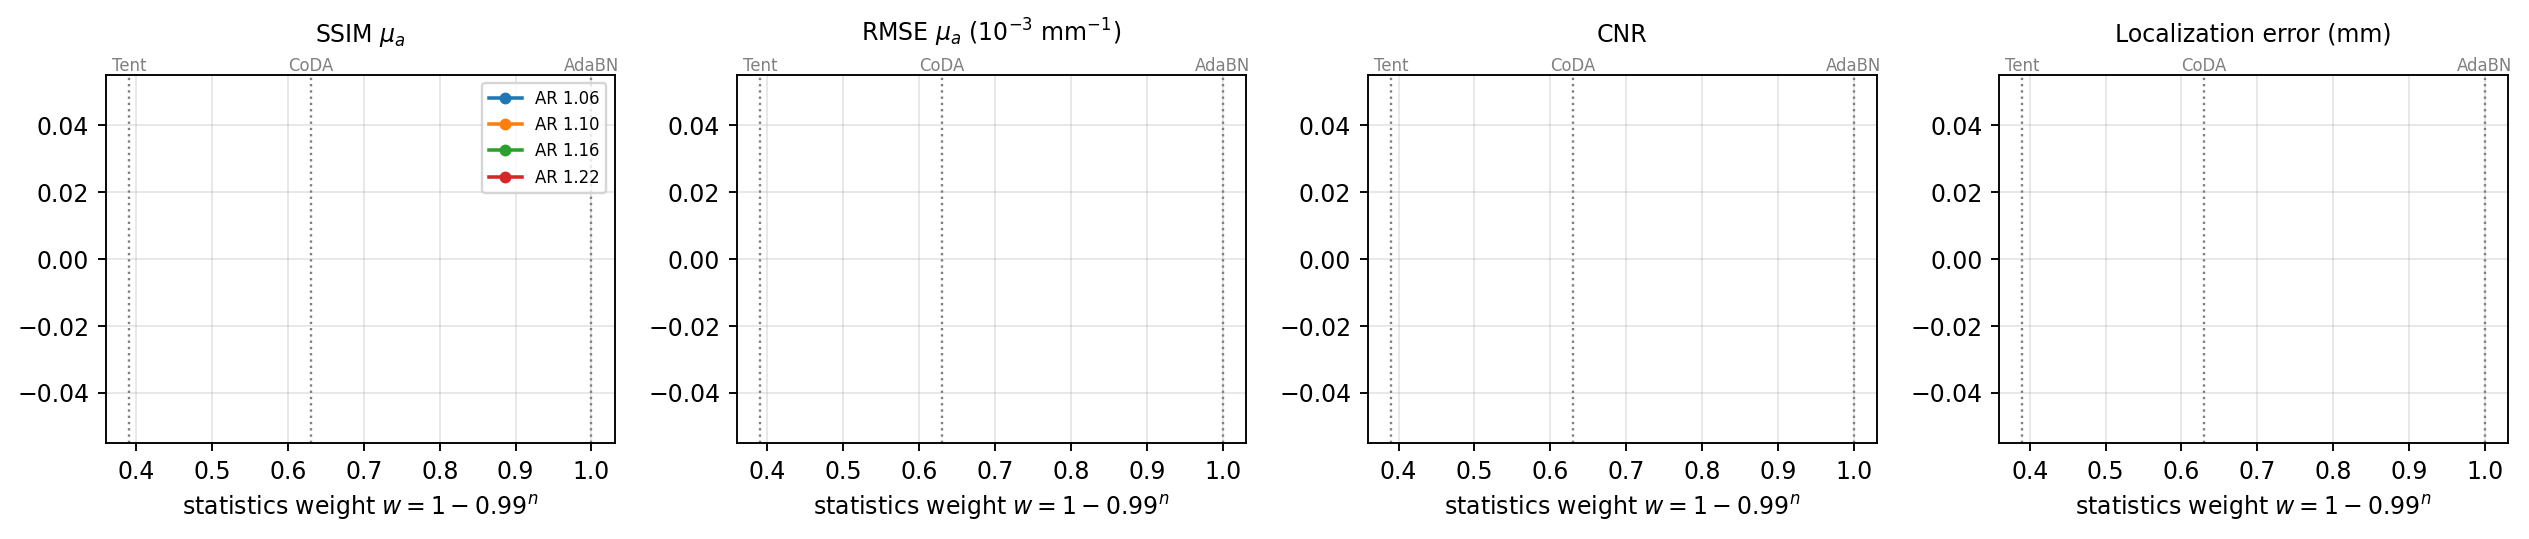
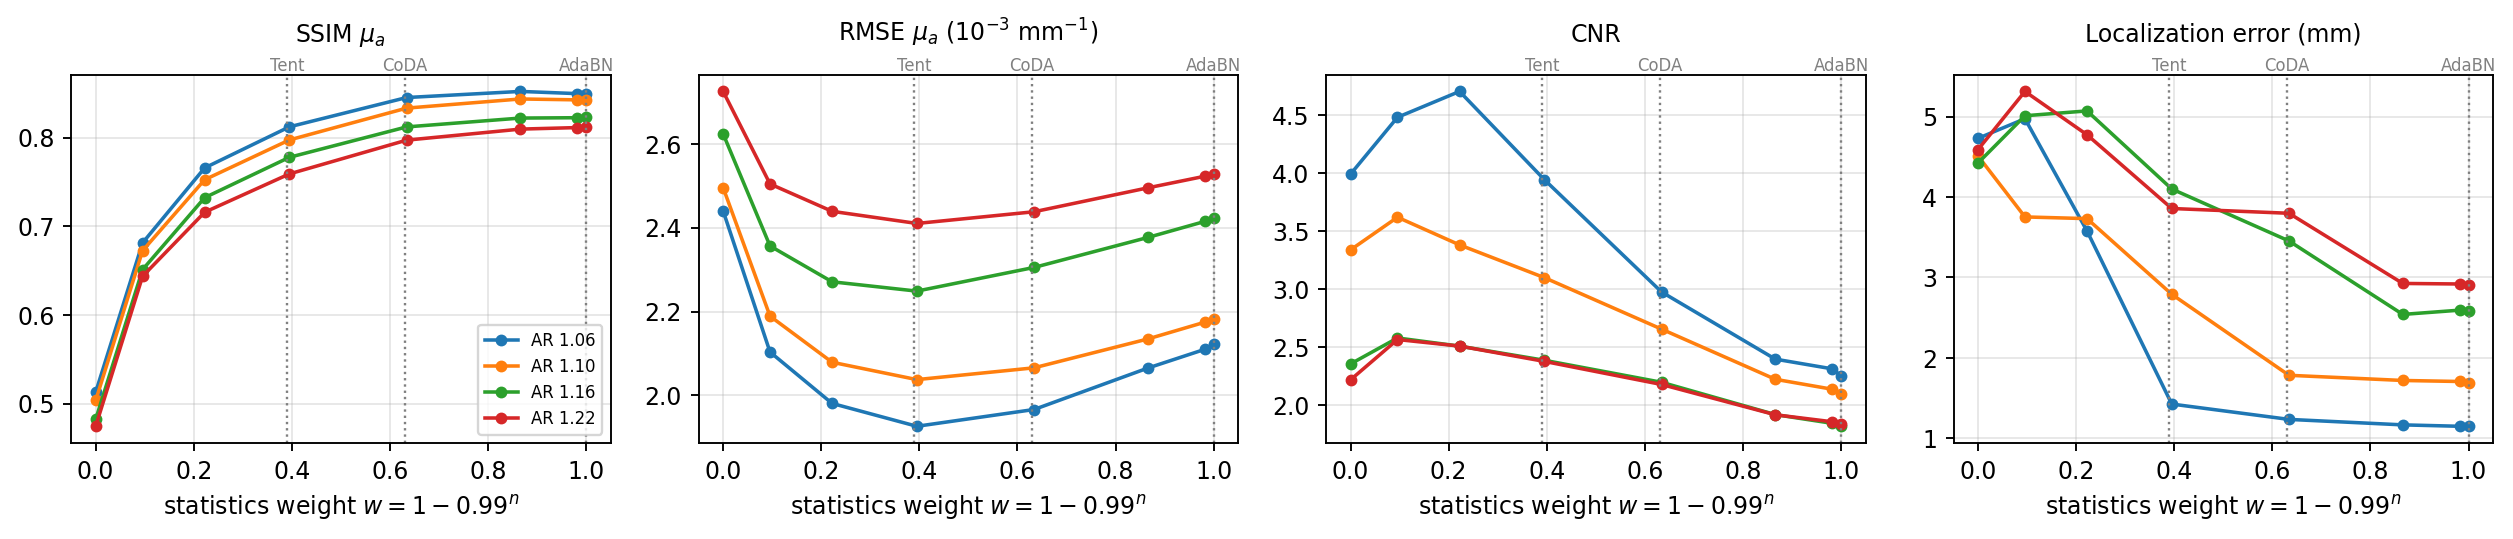
Fix empty statistics-weight sweep figure (AR column was read as float)

diff --git a/pipeline/collect_extra.py b/pipeline/collect_extra.py
@@ -11,7 +11,7 @@ OUT = os.path.join(HERE, "extra_summary"); os.makedirs(OUT, exist_ok=True)
 R = lambda ar: os.path.join(HERE, "runs", "R_" + ar, "results")
 
 # ---- A: statistics-weight sweep
-A = pd.concat([pd.read_csv(os.path.join(R(ar), "sweepA_%s.csv" % ar)) for ar in ARS])
+A = pd.concat([pd.read_csv(os.path.join(R(ar), "sweepA_%s.csv" % ar), dtype={"AR": str}) for ar in ARS])
 A.to_csv(os.path.join(OUT, "sweepA_statistics_weight.csv"), index=False)
 print(A.groupby("n")[["w", "ssim_a", "csd_a", "rmse_a", "cnr", "loc_mm"]].mean().round(3).to_string())
 fig, axes = plt.subplots(1, 4, figsize=(15, 3.3))
